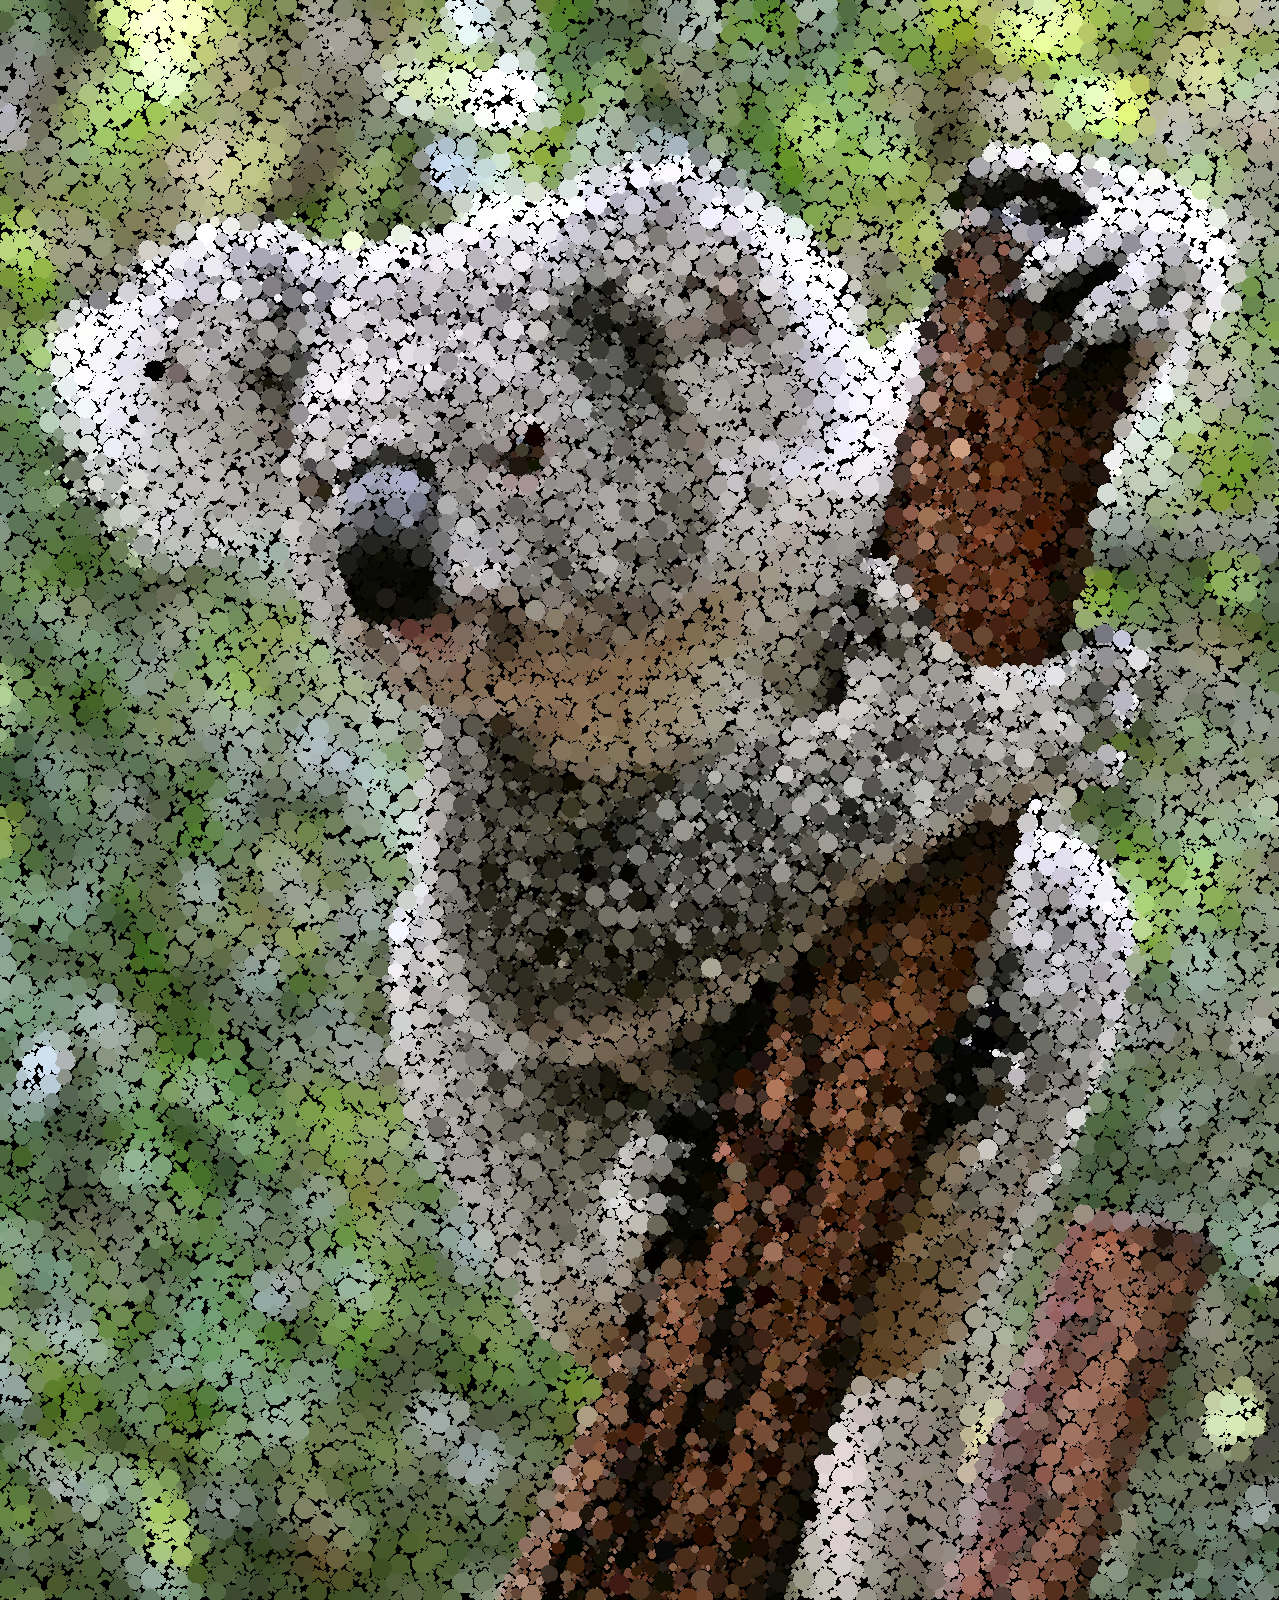
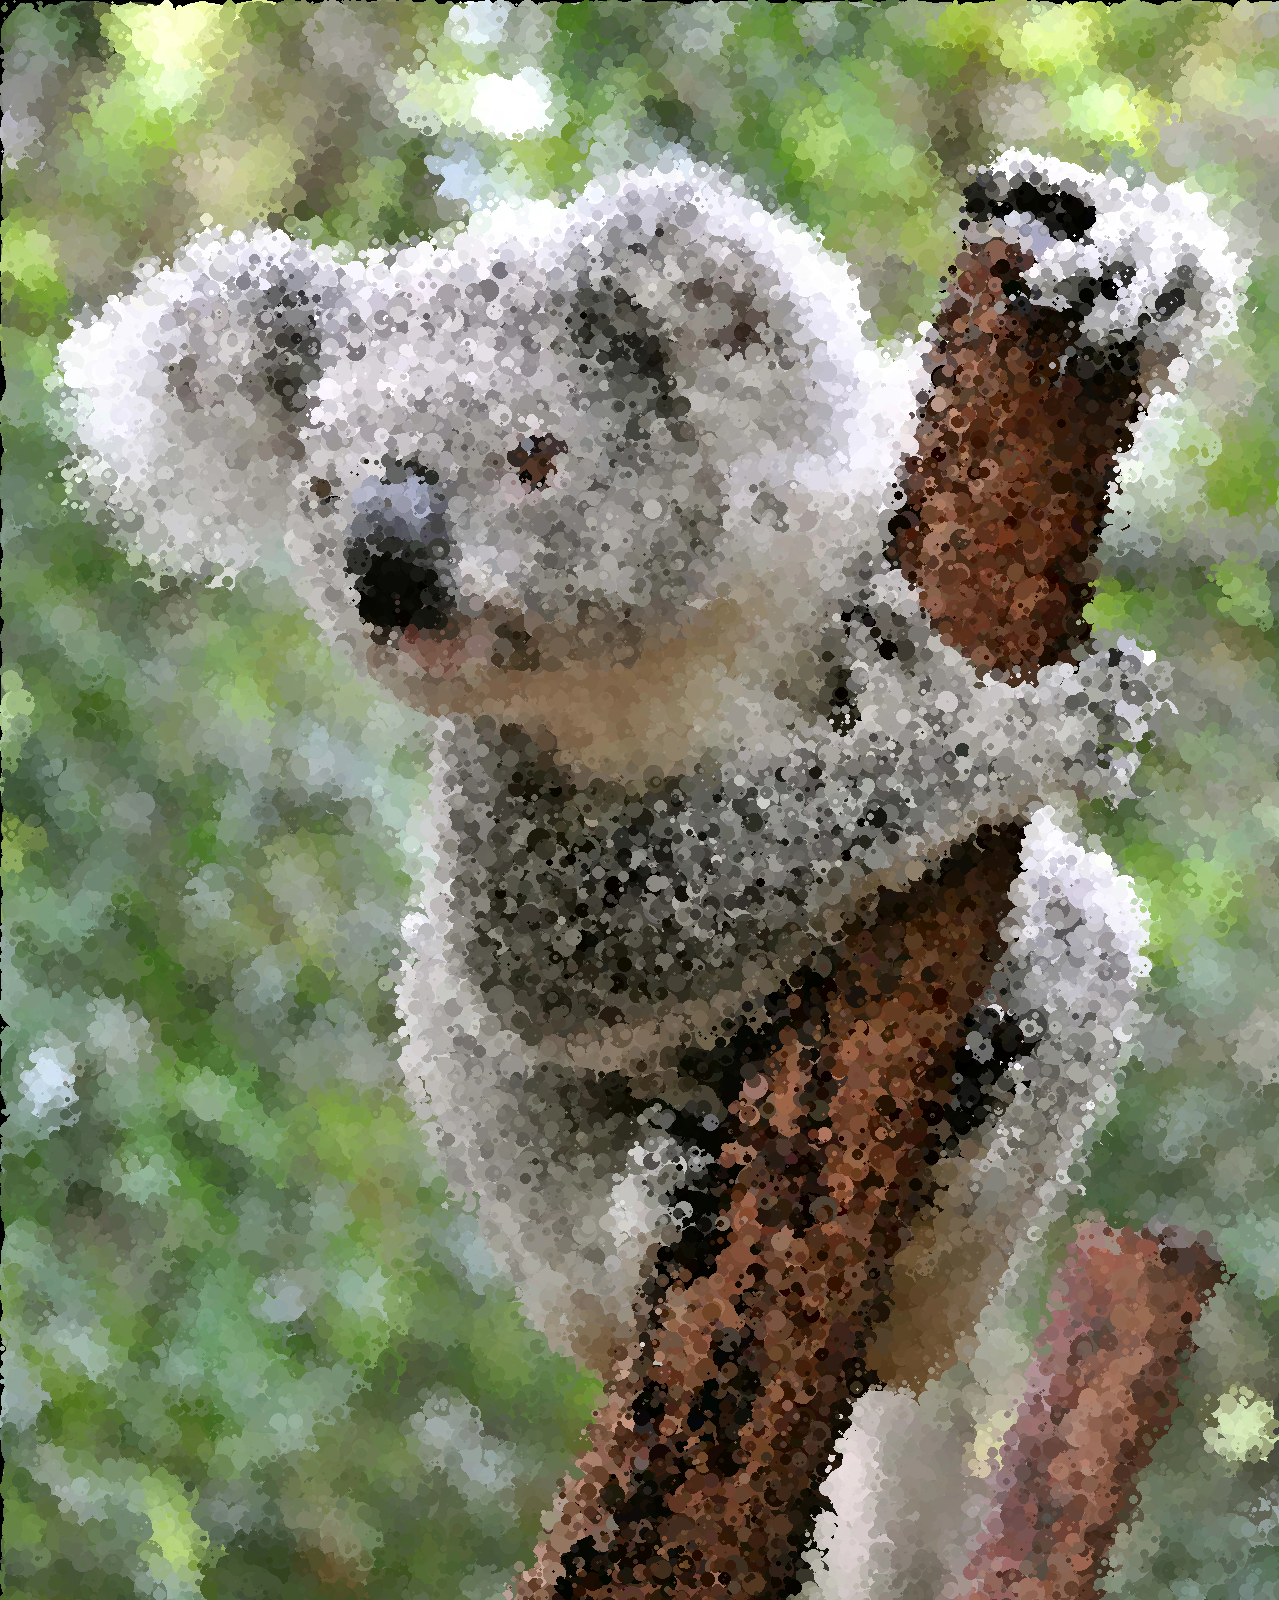
Add command line arguments and gif generation

diff --git a/ranpack.py b/ranpack.py
@@ -2,26 +2,45 @@ from PIL import Image, ImageDraw
 import random
 import math
 from tqdm import trange
+import argparse
 
-GRID_SIZE = 100
+parser = argparse.ArgumentParser(
+                    prog='Ranpack',
+                    description='Creates a stylized image from a base image',
+                    epilog='Ranpack packs circles randomly')
 
-img = Image.open("koala.webp")
+parser.add_argument("input")
+parser.add_argument("output")
+parser.add_argument("-n", "--number")
+parser.add_argument("-r", "--radius")
+
+args = parser.parse_args()
+
+N = int(args.number) if args.number else 100000
+RADIUS = int(args.radius) if args.radius else 30
+images = []
+
+print(args)
+
+img = Image.open(args.input)
 res = Image.new("RGB", img.size, (0, 0, 0))
+
+GRID_SIZE = int(min(img.size)/RADIUS/2)
 
 circles = [[[] for j in range(GRID_SIZE)] for i in range(GRID_SIZE)]
 
 x = random.randint(0, img.size[0]-1)
 y = random.randint(0, img.size[1]-1)
-r = random.randint(5, 30)
+r = 1
 
 circles[int(x/img.size[0]*GRID_SIZE)][int(y/img.size[1]*GRID_SIZE)].append(((x, y), r))
 
 draw = ImageDraw.Draw(res)
 
-for i in (t:=trange(200000)):
+for iter in (t:=trange(N)):
     x = random.randint(0, img.size[0]-1)
     y = random.randint(0, img.size[1]-1)
-    r = 10
+    r = RADIUS
     checks = 0
     i = min(max(1, int(x/img.size[0]*GRID_SIZE)), GRID_SIZE-2)
     j = min(max(1, int(y/img.size[1]*GRID_SIZE)), GRID_SIZE-2)
@@ -40,6 +59,12 @@ for i in (t:=trange(200000)):
         circles[int(x/img.size[0]*GRID_SIZE)][int(y/img.size[1]*GRID_SIZE)].append(((x, y), r))
         draw.ellipse((x-r, y-r, x+r, y+r), (img.getpixel((x, y))))
 
-res.save("res.png")
+        if iter%1000==0:
+            images.append(res.copy())
 
+
+res.save(args.output)
 res.show()
+
+gif = Image.new("RGBA", res.size)
+gif.save("res.gif", save_all=True, append_images=images)

diff --git a/README.md b/README.md
@@ -1,5 +1,5 @@
 # Random circle packing
 
-![A koala made of circles](https://github.com/michbogos/ranpack/blob/main/res.png?raw=true)
+![A koala made of circles](https://github.com/michbogos/ranpack/blob/main/res.gif?raw=true)
 
 Uses randdom packing to generate an stylized image.
